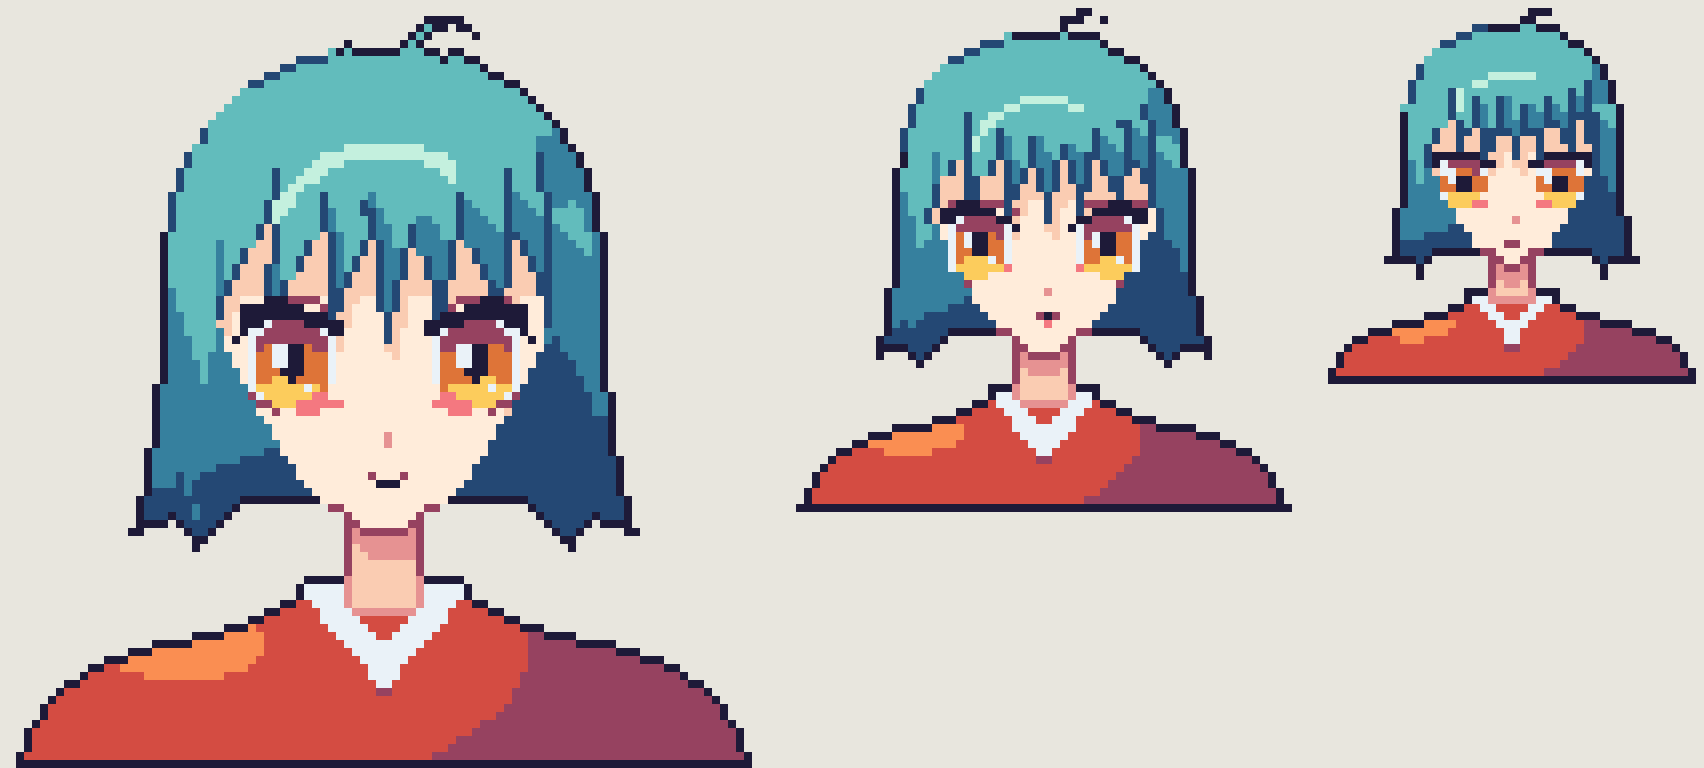
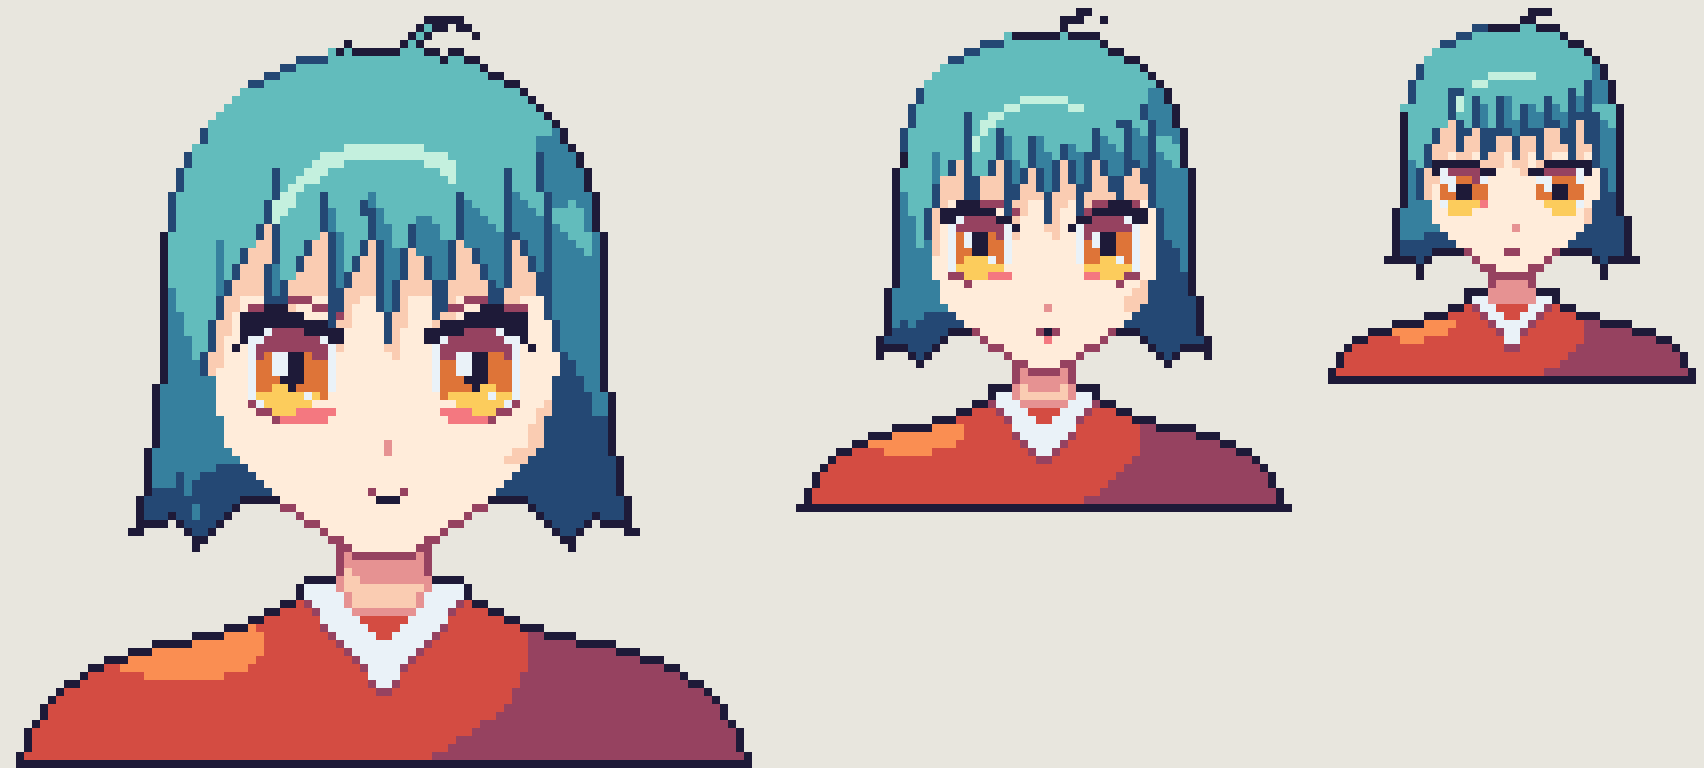
Vue de face : visage moins mince (joues pleines, menton pointu)
Mâchoire réglable par tête (Tete(mach=...)) ; en vue de face la joue
reste large jusqu'à la ligne du nez puis descend en diagonale vers le
menton. Crâne un peu plus gros. Le nettoyage ne casse plus le trait
chaud du menton.

Claude-Session: https://claude.ai/code/session_013wkJTCTwukCLdUSFsReJoa

diff --git a/methode_dessin/test6_portraits/tete.py b/methode_dessin/test6_portraits/tete.py
@@ -40,8 +40,10 @@ def enveloppe(P):
 def miroir(p): return (-p[0], p[1], p[2])
 
 class Tete:
-    def __init__(self, cx, cy, R, lacet=28, tangage=5, roulis=-5):
+    def __init__(self, cx, cy, R, lacet=28, tangage=5, roulis=-5, mach=None):
         self.cx, self.cy, self.R = cx, cy, R
+        # mach = (pommette, gonion, joue_bas, coin_menton) : remplace la mâchoire par défaut
+        self.mach = mach or (POMMETTE, GONION, JOUE_BAS, MENTON_C)
         self.M = rot(lacet, tangage, roulis)
     def tourne(self, p): return self.M @ np.asarray(p, float)
     def proj(self, p):
@@ -49,7 +51,7 @@ class Tete:
         return np.array([self.cx + self.R * q[0], self.cy + self.R * q[1], q[2]])
     def p2(self, p): return tuple(self.proj(p)[:2])
     def machoire(self):
-        cote = [POMMETTE, GONION, JOUE_BAS, MENTON_C]
+        cote = list(self.mach)
         return cote + [miroir(p) for p in cote] + [PROFIL['menton']]
     def contour(self):
         """Contour du visage = enveloppe du cercle du crâne et des points de mâchoire."""
@@ -69,7 +71,7 @@ class Tete:
     def plan_cote(self, s=1):
         """Plan de côté de Loomis (tempe → pommette → angle de mâchoire → arrière) :
         c'est lui qui passe à l'ombre quand la lumière vient de l'autre côté."""
-        pts = [(.74, -.05, .67), (.82, .32, .52), POMMETTE, GONION, (.55, 1.1, -.4), (1.1, .4, -.5), (1.1, -.4, -.3)]
+        pts = [(.74, -.05, .67), (.82, .32, .52), self.mach[0], self.mach[1], (.55, 1.1, -.4), (1.1, .4, -.5), (1.1, -.4, -.3)]
         return [self.p2(np.array(p) * (s, 1, 1)) for p in pts]
     def regard(self, s):
         """Centre de l'œil (sur la sphère), et facteur de raccourci horizontal."""
@@ -100,5 +102,5 @@ class Tete:
         for s in (-1, 1):
             r = np.sqrt(1 - .7 ** 2)
             g['cote%+d' % s] = arc(lambda t: (s * .7, r * np.sin(t), r * np.cos(t)), np.linspace(0, 2 * np.pi, 60))
-            g['mach%+d' % s] = [tuple(self.proj(np.array(p) * (s, 1, 1))) for p in (OREILLE, GONION, JOUE_BAS, MENTON_C)] + [tuple(self.proj(PROFIL['menton']))]
+            g['mach%+d' % s] = [tuple(self.proj(np.array(p) * (s, 1, 1))) for p in (OREILLE,) + tuple(self.mach[1:])] + [tuple(self.proj(PROFIL['menton']))]
         return g

diff --git a/methode_dessin/test6_portraits/portrait.py b/methode_dessin/test6_portraits/portrait.py
@@ -41,7 +41,9 @@ VUES = {
     ],
     houpe=((55, 9), (55, 2), (63, 1), (65, 6)),
     dos_sombre=.35, lum_x=.55, iris=(.38, .47), oeil_loin=.72, dx_yeux=(1.2, .5), joues=(3, 4.5), dx_nez=-.04, dx_bouche=.05),
- 'face': dict(tete=Tete(50, 37, 22, lacet=0, tangage=4, roulis=0),
+ 'face': dict(tete=Tete(50, 37, 24, lacet=0, tangage=4, roulis=0,
+                      # joue pleine jusqu'à la ligne du nez, puis diagonale vers un menton pointu
+                      mach=((.94, .45, .30), (.86, .86, .00), (.52, 1.22, .36), (.13, 1.46, .50))),
     # bob symétrique ; la frange a sa raie un peu à droite pour ne pas faire « casque »
     dos=chemin((21, 36), ((21, 14), (36, 6), (50, 6)), ((64, 6), (79, 14), (79, 36)),
                ((79, 52), (81, 62), (83, 70)), (77, 68), (74, 72), (69, 66), (31, 66), (26, 72),
@@ -270,7 +272,7 @@ def nettoyer(G, tours=2):
         for y in range(1, S - 1):
             for x in range(1, S - 1):
                 c = G[y][x]
-                if c in '.O': continue
+                if c in '.O4': continue      # contours (y compris le trait chaud du menton) intacts
                 v = [G[y + dy][x + dx] for dx, dy in ((1, 0), (-1, 0), (0, 1), (0, -1))]
                 if c not in v:
                     cand = [n for n in v if n not in '.O']

diff --git a/methode_dessin/METHODE_PIXEL_ART.md b/methode_dessin/METHODE_PIXEL_ART.md
@@ -1069,6 +1069,9 @@ Règles reprises de tutoriels Loomis et anime, puis vérifiées en comptant les 
 5. **Oreilles** entre la ligne des sourcils et celle du nez.
 6. **Lumière de face.** La lumière vient d'en haut et un peu de face. Sinon, toute la moitié basse des cheveux tombe dans la teinte la plus sombre et fait une masse plate.
 
+7. **Joues pleines jusqu'à la ligne du nez.** Pour un visage anime de face qui ne soit pas trop mince, la largeur à la ligne du nez vaut environ 85 % de la largeur à la ligne des yeux. Ensuite seulement, deux diagonales presque droites descendent vers un menton pointu. À la ligne de la bouche, il reste environ 65 %. Si la mâchoire se resserre dès les yeux, le visage devient un long « V » trop mince. C'était l'erreur du test 8, relevée par l'utilisatrice. Le crâne doit aussi être assez gros par rapport au carré de cheveux : à 96 px, le rayon est de 24, pas 22.
+8. **Le trait du menton doit être continu.** Le nettoyage des pixels isolés ne doit pas toucher au trait chaud (4). Sinon, la diagonale de la mâchoire, faite de pixels en escalier, se transforme en pointillés.
+
 Tailles d'œil retenues pour la vue de face : 11×12 à 96 px, 8×9 à 64 px et 6×7 à 48 px.
 
 ## Résumé
